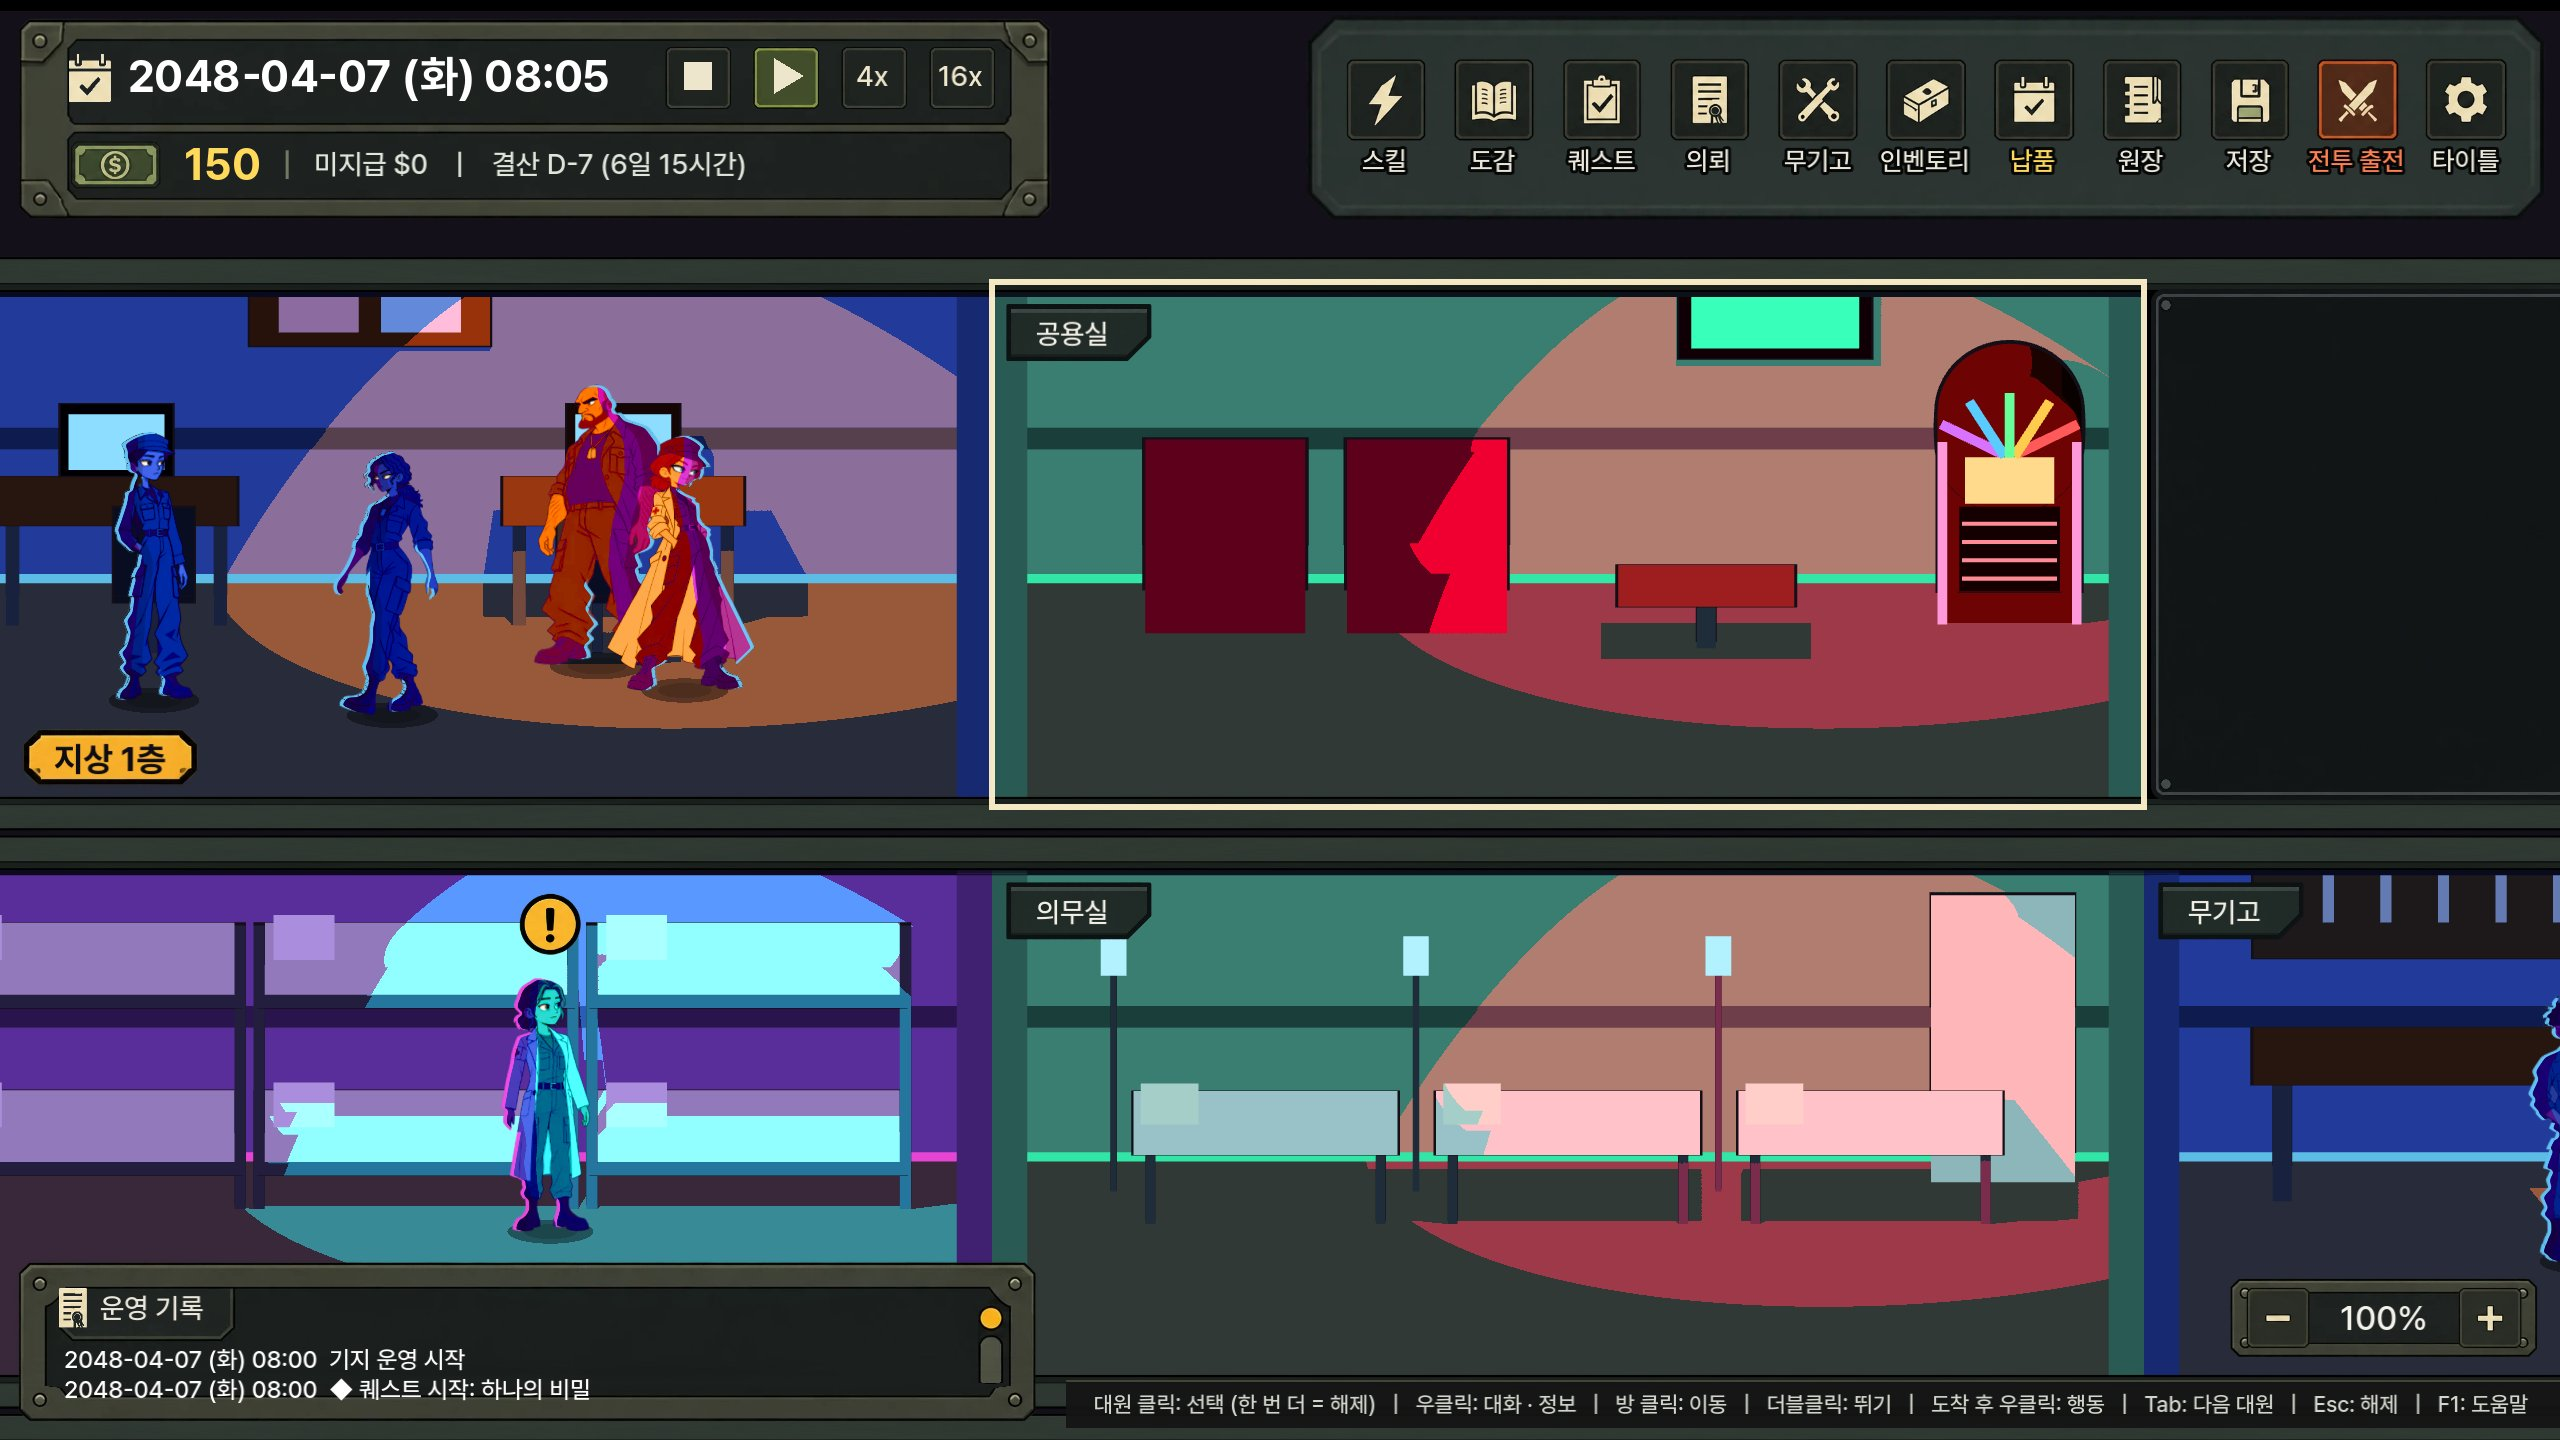
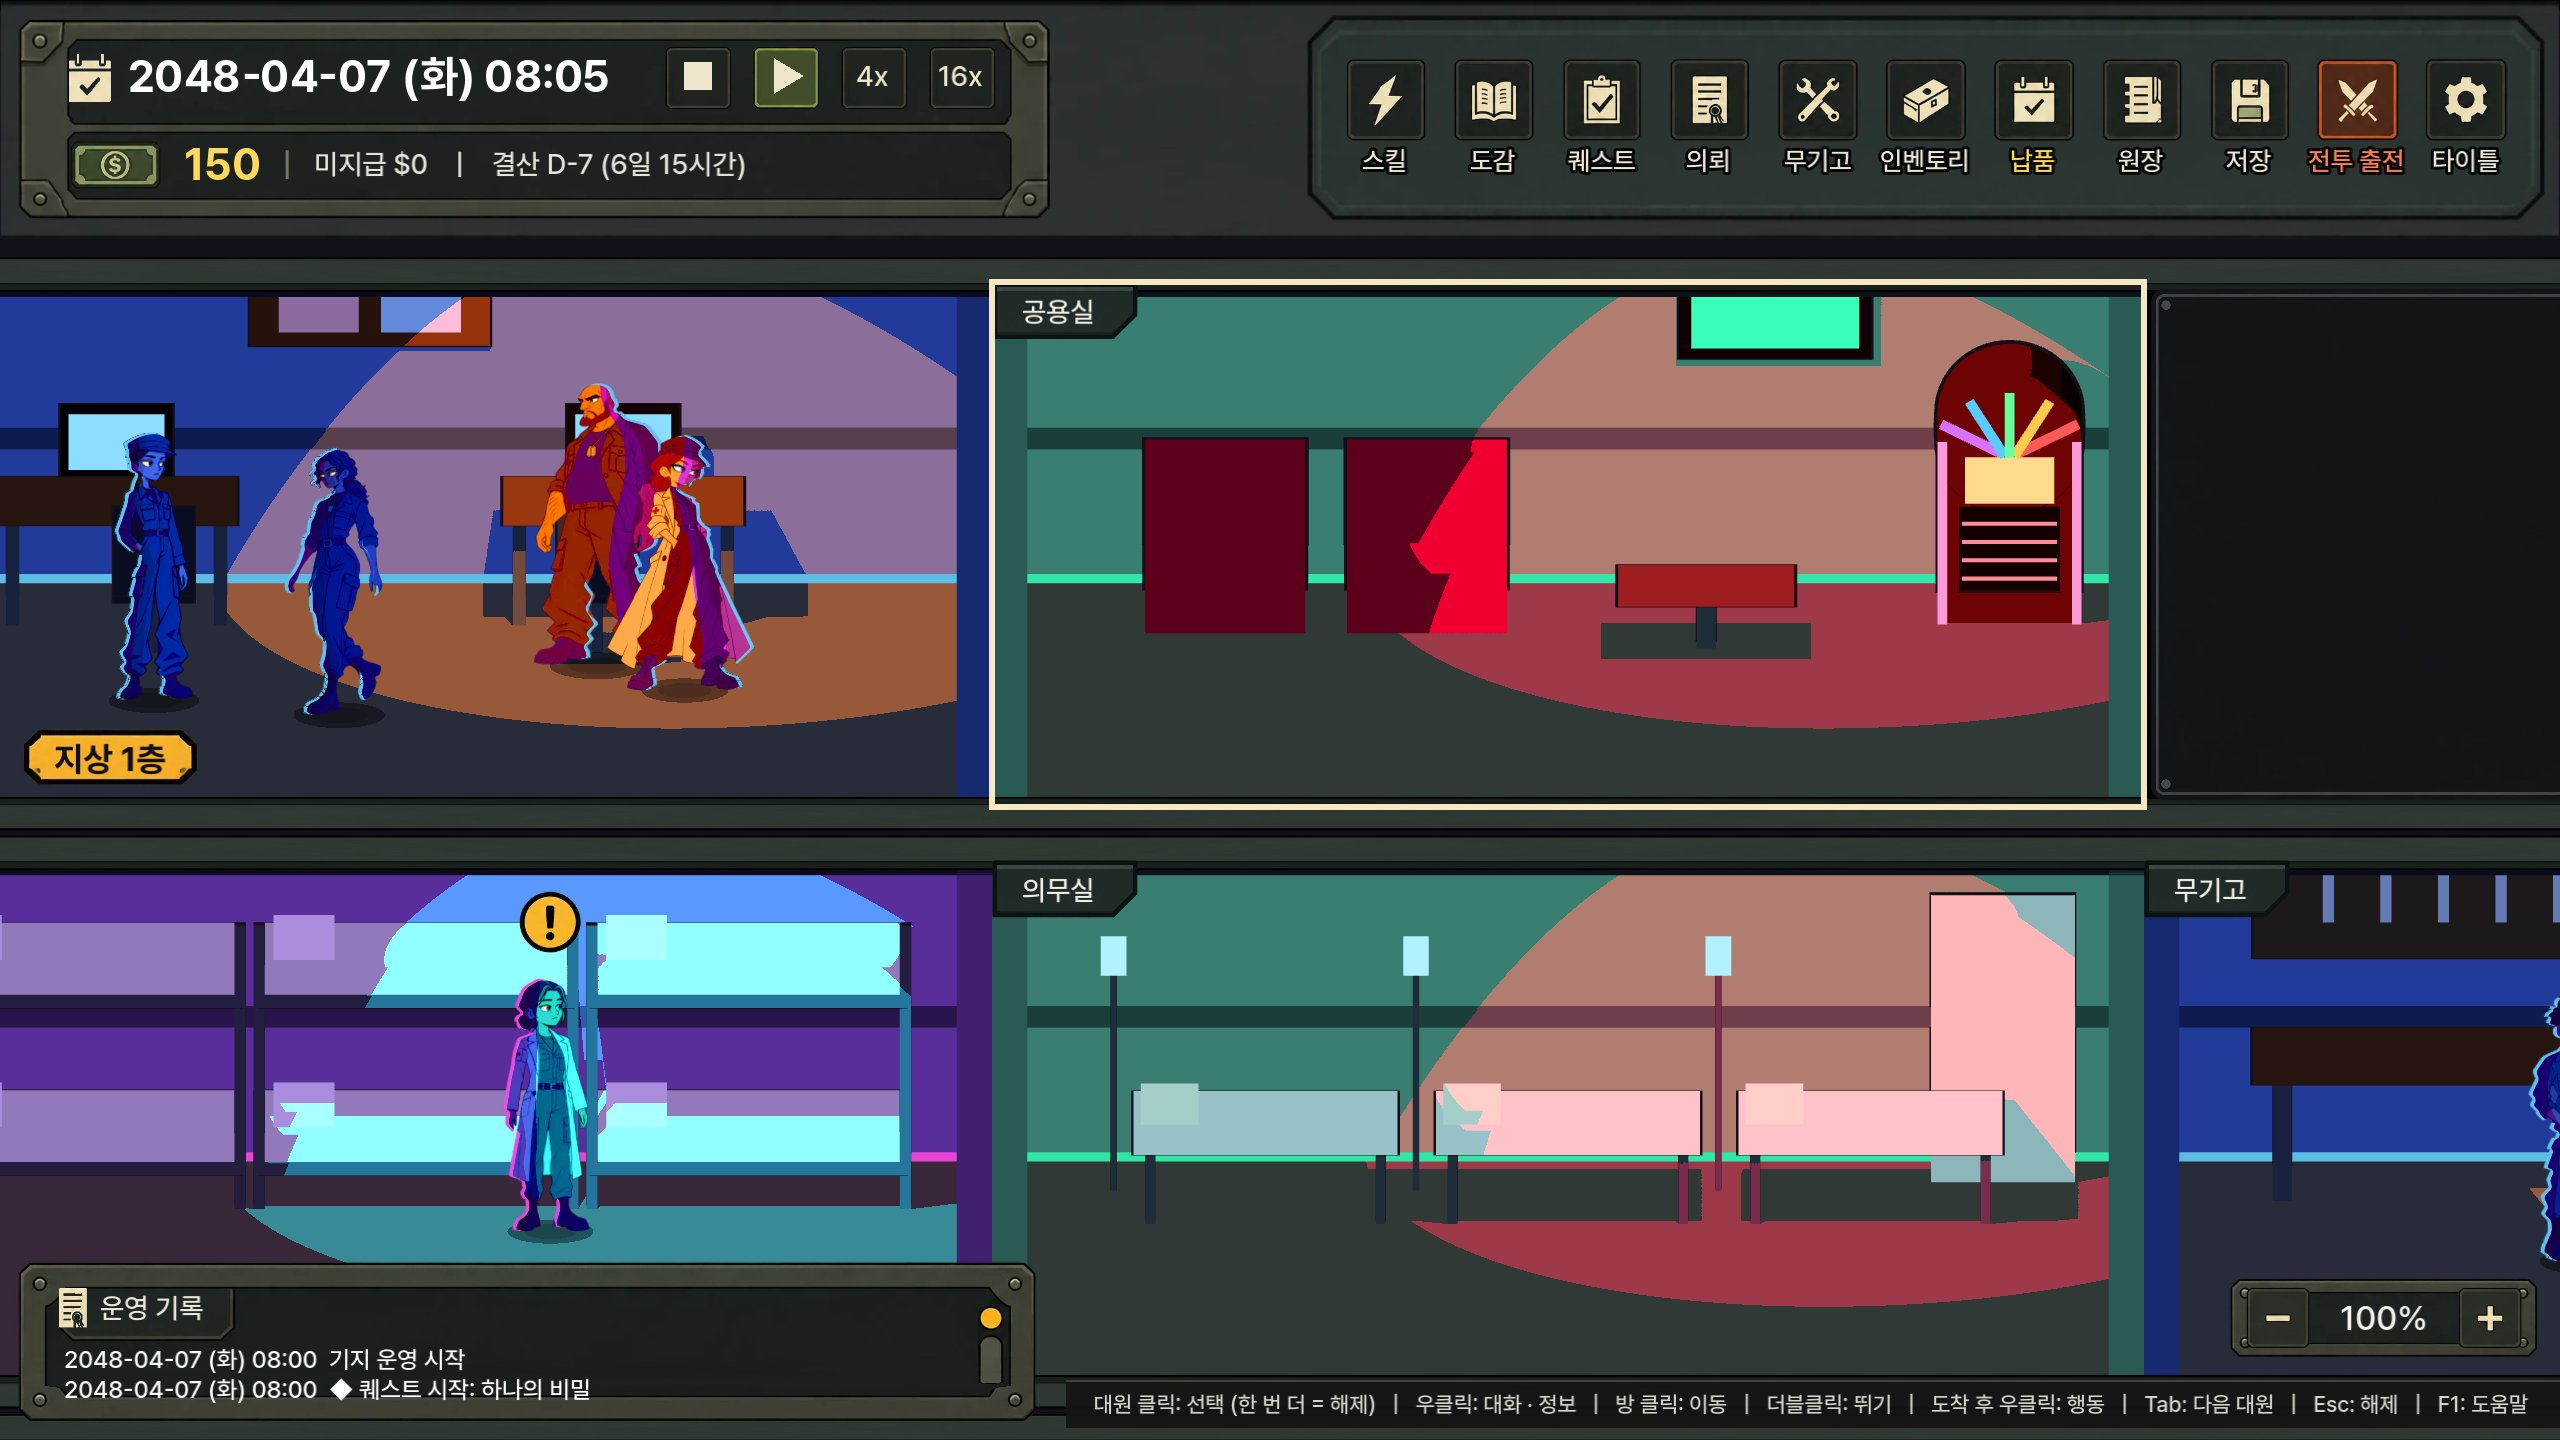
Add top HUD backing band; pin room plates to the room corner
- The user's dark band is stretched across the full width as the
  bottom-most layer of the top HUD, behind the date and icon panels.
- Room name plates now sit exactly on each room's top-left corner.

Claude-Session: https://claude.ai/code/session_014aytw3hj7boqn3SZ5GP5ti

diff --git a/docs/design/PROTOTYPE_GDD_v1_0.md b/docs/design/PROTOTYPE_GDD_v1_0.md
@@ -4,7 +4,7 @@
 
 ## 0. 현재 구현 반영 (변경될 때마다 갱신)
 > 아래는 원 기획 이후 사용자 결정으로 바뀐 내용. 상세 결정 이력은 `00_decision_log_v1_0.md`, 아트 규격은 `../ui_art_spec.md`.
-> 마지막 갱신: 2026-10-31 (방 이름 패널 = 사용자 제공 그림)
+> 마지막 갱신: 2026-10-31 (상단 HUD 뒤 띠 · 방 이름표 = 방 왼쪽 위 모서리)
 
 - **표현**: 캐릭터 2D **스프라이트 프레임 애니메이션**(**스프라이트 시트** `assets/characters/<id>/<동작>_<칸 수>.png`, 사용자가 제작 — 시트 없는 동작은 기본 그림 한 장. 현재: 하나·니키타·키라·단·이선·앨마 idle(기본 그림 숨쉬기) — 니키타(빨간 머리 의무병 코트)·키라(회색 군복, 최종)·하나(곱슬머리 군복·오른쪽 눈 아래 점, 최종)·앨마(흰 의무 가운)는 새 그림으로 교체되어 예전 걷기·피격·공격 시트는 지움) + 배경 3D(실광원·그림자). Skeleton2D 리그·3D 캐릭터 전환은 제거.
   칠 방식: **전 캐릭터 네온 칠**(선화는 원화 그대로, 면은 원화 밝기대로 조명색으로 덮음 — 어두운 면은 깊은 보라, 밝은 면은 조명색). `character.json` `"style": "classic"` 이면 예전 셀 칠, `"neon_gradient"` 0~1 = 몸 위→아래 색상 그라데이션(기본 끔).
@@ -29,7 +29,7 @@
 - **인간 적군 AU군 거한** (bigman): 근접 거한(키 205cm, HP 120, 방어 3, AI aggressive) [임시]. 모션 9종 + idle · 지침 리깅. 쓰러진 그림(dead)은 이제 몸이 발밑 그림자 위에 놓이게 (몸 두께 30% 아래로).
 - **전투 겹침 정리**: 체력 · AP 칸과 상태 배지는 그 유닛 바로 위 층 (앞줄 캐릭터에 가려짐), 쓰러진 캐릭터는 안 보임. 쓰러진 캐릭터는 살아 있는 캐릭터 뒤 층, 조금 뒤로 물러나 눕고 가운데 열은 몸 두께만큼 더 뒤로 → 쓰러진 몸끼리 안 겹침. 누운 몸 길이는 선 키와 같게 (긴 그림은 작게 그림 — 단 · 하나는 원래 크기 유지).
 - **기지 조작**: 대원 클릭 = 선택, **선택한 대원을 한 번 더 클릭 = 선택 해제** (대화는 우클릭 메뉴). 선택해도 오른쪽 아래 카드는 안 뜸 — **우클릭 → '정보 보기'** 를 누르면 화면 가운데 창 (모든 대원; 전투 대원은 장비 · 스킬 트리 포함). 기지 로그창은 오른쪽 위 모서리 아이콘(UI 패키지 schedule)으로 접기 · 펴기.
-- **기지 UI v2** (사용자 제공 UI 패키지 + 레퍼런스 화면, 원본 art_src/ui/ui_package_v2.webp · ref_outgame_v2.webp): 왼쪽 위 = 두 줄 패널(달력 · 날짜 · 속도 버튼 ■ ▶ 4x 16x — 지금 속도는 초록 / 지폐 · 잔액 | 미지급 | 결산 D-day), 오른쪽 위 = 새 아이콘 타일 11개(전투 출전만 주황) — 뒤에 팔각 어두운 띠 패널(사용자 제공, 날짜 패널과 같은 높이), 층 표시 = 지금 보는 층 금색 태그 · 나머지 어두운 태그, 방 이름 = 사용자 제공 이름 패널(오른쪽 아래만 비스듬히 잘린 어두운 판), 운영 기록 = 머리 탭 · 스크롤 막대 · 주황 점 패널(2줄, 머리 탭 · 주황 점 = 접기, 접으면 "운영 기록 ▸" 탭), 오른쪽 아래 = − 100% + 패널, 맨 아래 = 조작 안내 띠(| 구분), 머리 위 ! = 노란 동그라미, 카세트 ▲▼ 삼각형. **잠긴 방** = 볼트 달린 검은 패널(사용자 제공, 볼트는 작은 점 크기) 위에 자물쇠 · 해금 비용. **층 테두리** = ui-room (층마다 그 층 방 전체를 감쌈 — 위 · 아래 볼트 띠가 층 사이), 마우스를 올린 방 = 크림색 테두리 (최종 시안 = art_src/ui/ref_outgame_v2.webp). 방 이름표 · 조작 안내 · 기록 줄은 틀 밖으로 안 나감(줄이거나 자름).
+- **기지 UI v2** (사용자 제공 UI 패키지 + 레퍼런스 화면, 원본 art_src/ui/ui_package_v2.webp · ref_outgame_v2.webp): 왼쪽 위 = 두 줄 패널(달력 · 날짜 · 속도 버튼 ■ ▶ 4x 16x — 지금 속도는 초록 / 지폐 · 잔액 | 미지급 | 결산 D-day), 오른쪽 위 = 새 아이콘 타일 11개(전투 출전만 주황) — 뒤에 팔각 어두운 띠 패널(사용자 제공, 날짜 패널과 같은 높이), 층 표시 = 지금 보는 층 금색 태그 · 나머지 어두운 태그, 방 이름 = 사용자 제공 이름 패널(오른쪽 아래만 비스듬히 잘린 어두운 판, 방 왼쪽 위 모서리에 딱 맞춤), 상단 HUD 맨 뒤 = 화면 폭 어두운 띠(사용자 제공), 운영 기록 = 머리 탭 · 스크롤 막대 · 주황 점 패널(2줄, 머리 탭 · 주황 점 = 접기, 접으면 "운영 기록 ▸" 탭), 오른쪽 아래 = − 100% + 패널, 맨 아래 = 조작 안내 띠(| 구분), 머리 위 ! = 노란 동그라미, 카세트 ▲▼ 삼각형. **잠긴 방** = 볼트 달린 검은 패널(사용자 제공, 볼트는 작은 점 크기) 위에 자물쇠 · 해금 비용. **층 테두리** = ui-room (층마다 그 층 방 전체를 감쌈 — 위 · 아래 볼트 띠가 층 사이), 마우스를 올린 방 = 크림색 테두리 (최종 시안 = art_src/ui/ref_outgame_v2.webp). 방 이름표 · 조작 안내 · 기록 줄은 틀 밖으로 안 나감(줄이거나 자름).
 - **기지 클릭 판정**: 대원은 **몸 그림의 불투명 픽셀** 어디를 눌러도 선택 (예전 사각형은 상반신을 놓침, 빈 곳은 안 잡힘). 머리 위 **'!' 를 누르면 요청 대화**(수락). **방 빈 곳 우클릭** = 그 방 메뉴 → '정보 보기' = 도감 '기지 시설' 탭의 그 방 (선택한 대원이 그 방에 있으면 대원 행동도 같은 메뉴에).
 - **날짜 속도 버튼** (사용자 제공 그림): 정지 = ■ 버튼, 1배 = ▶ 버튼, 4배 · 16배 = 빈 버튼 + 글자. 지금 속도는 금빛, 나머지는 살짝 어둡게.
 - **배경음악 · 주크박스**: 배경음악 5곡 (`assets/audio/bgm/`, 목록 · 제목 · 음량 `data/bgm.json`), 기지에 들어오면 재생 · 장면이 바뀌어도 이어짐 · 곡이 끝나면 다음 곡. **공용실 오른쪽 주크박스**(대원을 선택하지 않은 상태에서 주크박스 어디든 — 마우스를 올리면 금색 테두리 + '클릭: 음악')를 누르면 **주크박스 바로 왼쪽에 음악 카세트 창**(카메라를 움직여도 따라감)(사용자 제공 그림) — 빈 칸에 지금 곡 제목, 위 ▲ = 이전 곡, 아래 ▼ = 다음 곡. 주크박스를 다시 누르면 닫힘.

diff --git a/docs/design/00_decision_log_v1_0.md b/docs/design/00_decision_log_v1_0.md
@@ -588,6 +588,8 @@
 
 - **2026-10-31 방 이름 패널** (사용자 제공, 원본 art_src/ui/room_name_panel.webp → assets/ui/outgame/v2/plate_room.png): 방 이름표를 어두운 태그 대신 이 판으로 — 오른쪽 아래 비스듬한 모서리 · 위 밝은 줄은 그대로 9칸 늘리기(배율 0.09, 높이 29). 방이 좁으면 예전처럼 글자를 줄이고 잘라 방 밖으로 안 나감.
 
+- **2026-10-31 상단 띠 · 방 이름표 자리** (사용자): 상단 HUD 맨 뒤 층에 화면 폭 어두운 띠 (원본 art_src/ui/top_band.webp → assets/ui/outgame/v2/band_top.png, 높이 = 상단 패널 + 여백). 방 이름표는 방 단면의 왼쪽 위 모서리에 딱 맞춤 (예전엔 안쪽으로 조금 들임), 좁은 방이면 방 폭까지만.
+
 ## 검증 중 (확정 아님)
 - **배경 3D + 캐릭터 2D 하이브리드** (2026-10-25 적용): 배경은 3D 방을 2D 카메라와 같은 투영으로 렌더, 캐릭터 라이팅은 실제 광원 위치 기준
   (빛 쪽 얼굴·몸을 광원색으로 밝힘 + 빛이 뒤에서 오면 같은 쪽 가장자리 림 + 바닥 그림자). 캐릭터 2D(리그)는 확정 사항 유지. (이전 2D 배경 판은 2026-10-27 제거.)
